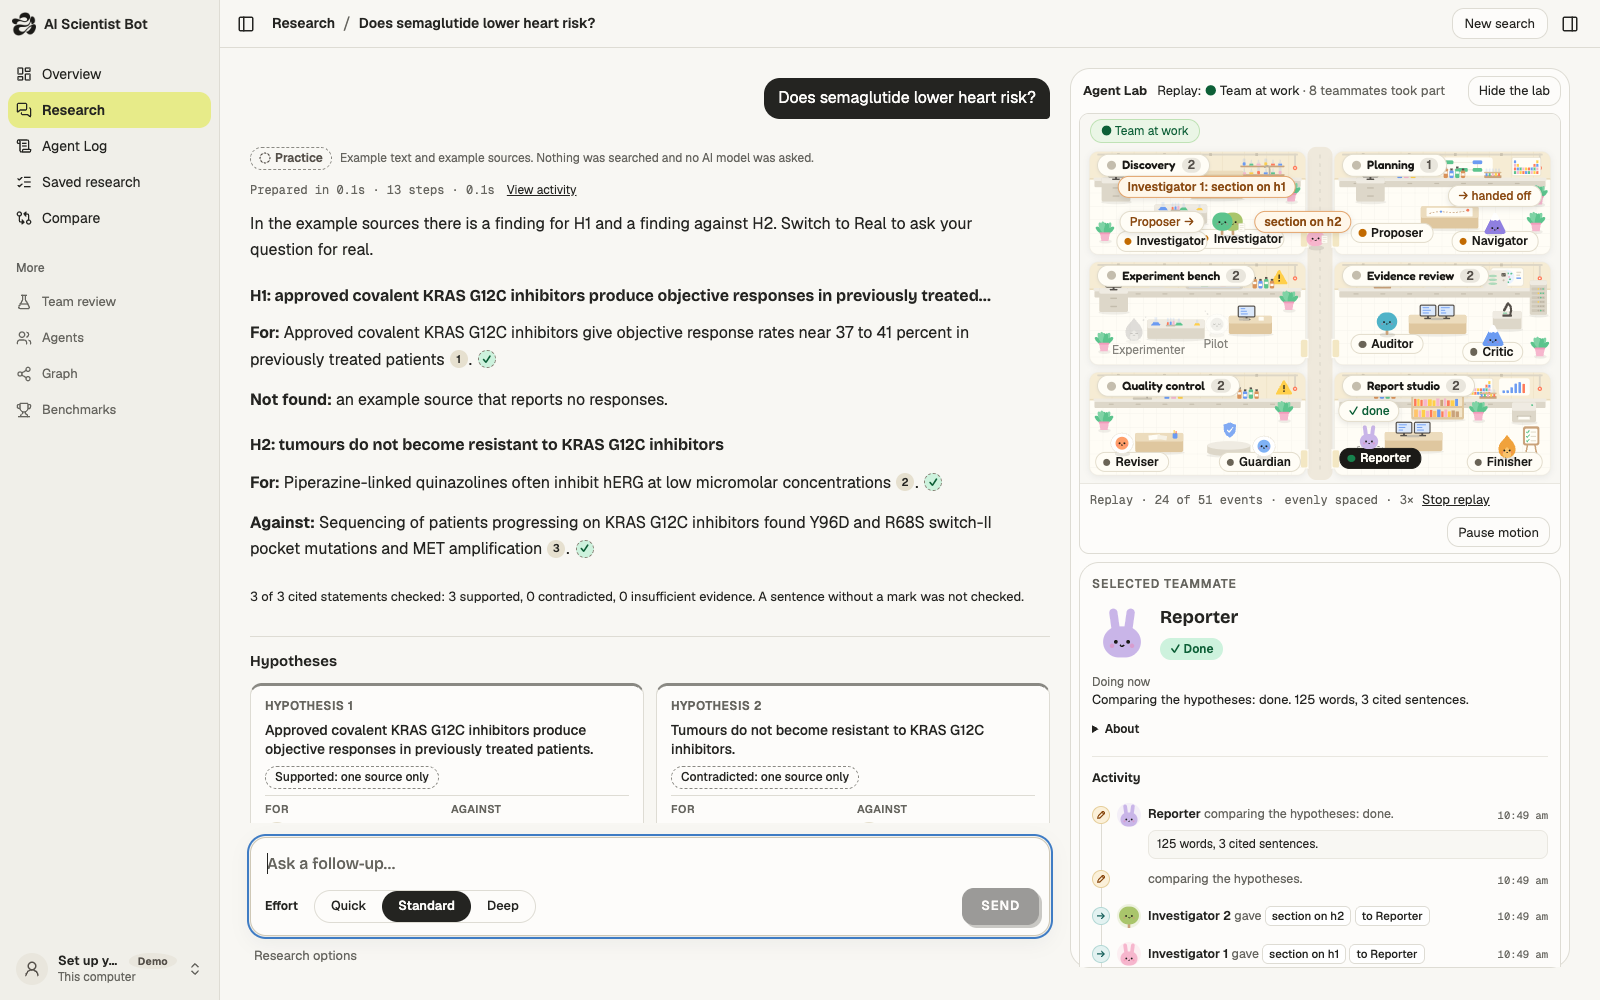
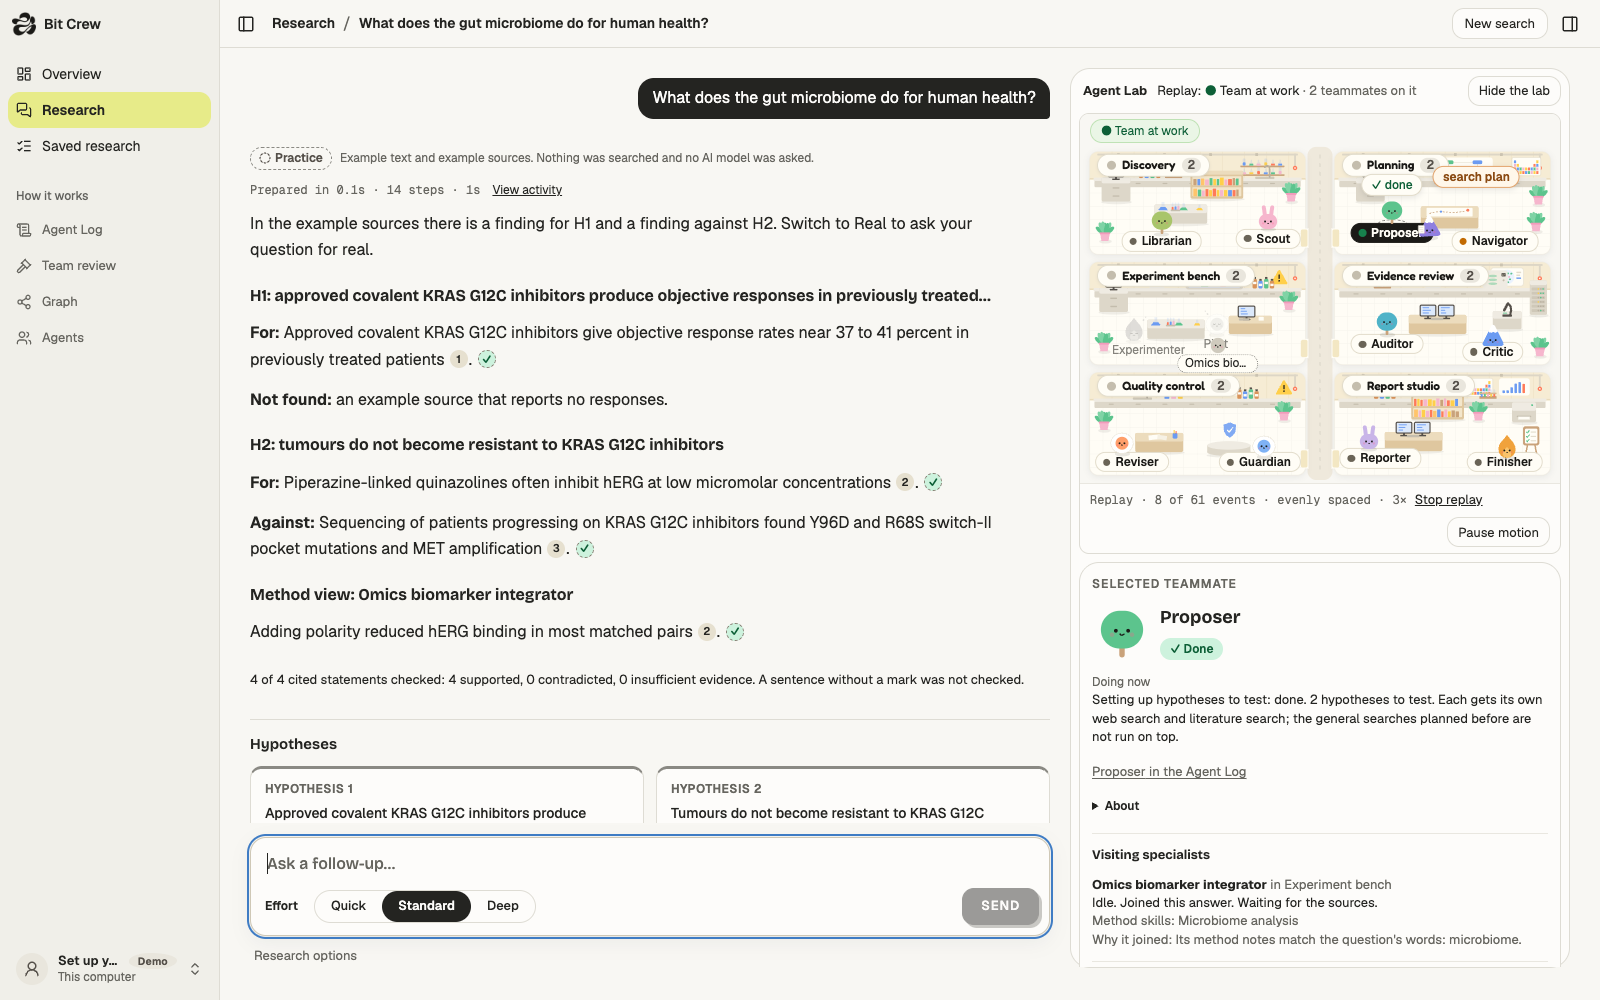
docs: refresh README tour and screenshots for the current app (#49)
* docs(readme): walk through the current app page by page, with new Demo screenshots

* no-mistakes(document): Sync literature source list in docs to six

* docs(readme): keep the live Agent Log note and wrap the Team review lines

* docs(readme): walk through the current app page by page, with new Demo screenshots

* no-mistakes(document): Sync literature source list in docs to six

* docs(readme): walk through the current app page by page, with new Demo screenshots

* docs(readme): keep the live Agent Log note and wrap the Team review lines

* no-mistakes(document): Clarify Research inspector tabs in README

* docs(readme): retake every tour screenshot from main as Bit Crew, after the team review moved into the Agent Log

* no-mistakes(review): Drop non-UI retraction and cache claims from docs

* docs(readme): describe the Overview question card as the app in use shows it, running and finished

---------

diff --git a/README.md b/README.md
@@ -6,7 +6,7 @@ checked, and what is still uncertain.**
 Built for the **SF AI Research Hackathon** (Track 3, AI Scientist Swarms) by team GLHF:
 Brendan Dang, Anh Lam and Josh Bustamante.
 
-**Contents:** [Try it](#try-it) · [Demo and Real](#demo-and-real) · [What is in the app](#what-is-in-the-app) ·
+**Contents:** [Run it](#run-it-on-your-machine) · [Demo and Real](#demo-and-real) · [Using the app](#using-the-app) ·
 [Where things stand](#where-things-stand) · [Benchmarks](#benchmarks) · [How it fits together](#how-it-fits-together) ·
 [Words](#words) · [Read more](#read-more)
 
@@ -127,11 +127,13 @@ only the case's data files are uploaded.
 Tested with fakes only; no run has used Modal yet. Details:
 [docs/configuration.md](docs/configuration.md#where-the-swarms-analyses-run-analysis_backend).
 
-## What is in the app
+## Using the app
 
-The sidebar has two groups. **Overview, Research, Saved research** come first: ask, read, find again.
-**How it works** holds Agent Log, Team review, Graph and Agents. Settings opens from the profile row at the foot.
-Benchmarks and Compare are not in the sidebar. They open only by their address (`#Benchmarks`, `#Compare`).
+The sidebar has two groups. **Overview**, **Research** and **Saved research** come first: ask, read, find again.
+**How it works** holds **Agent Log**, **Team review**, **Graph** and **Agents**. **Settings** opens from the profile
+row at the foot. Benchmarks and Compare are not in the sidebar; they open only by their address (`#Benchmarks`,
+`#Compare`). The pictures below are **Demo mode**: practice runs with fixed example text, not research. The app
+labels them "Practice".
 
 | Screen | What it is for |
 |---|---|
@@ -145,6 +147,121 @@ Benchmarks and Compare are not in the sidebar. They open only by their address (
 | Agent Log | Every event of the selected run, shown as a group chat. Each agent turn is a message beside the agent's picture and name. Longer reasoning opens with "Show thinking"; other long text, such as an answer draft, opens with "Show more". Tool calls, searches and system steps are small notes between the messages. While a run is live, the log stays on the newest message. One toolbar holds the search box, the Agent and Kind of step menus (each choice with its number of events) and Clear; on the right, Download (JSON or CSV of the shown events). The run menu above it lists runs in progress, then finished runs (research answers, team reviews and task runs), next to Follow newest. A team review shows a "Round n" line where each round begins, the lead and the members as messages, and each statement check as a quiet note with its mark (✓ supported, ✕ contradicted, ? insufficient evidence, ○ not checked). No room picture here; the Lab stays on Overview. |
 | Benchmarks | Not in the sidebar; open `#Benchmarks`. Our benchmark results set out as an evaluation: model, accuracy with its interval, tokens, time and cost, beside the record to beat. |
 | Settings | Demo or Real, Usage and limits (spent today, the limit per run and per day, Exa search), and Appearance: Light, Dark, or Match system. |
+
+### 1. Overview: ask, and watch the team work
+
+The app opens here. Choose Quick, Standard or Deep for a question, then press Send. Under the box, **Try asking**
+shows biology questions; a click fills the box, and nothing is sent until you press Send.
+
+Ask in the "Let's research together!" question box. Its card shows under the box: the agents and their current step,
+with Stop, while the team researches, and "The answer is ready." when it ends. The answer itself is not written on the
+Overview: "See the answer and follow up in Research" opens its chat in Research, with the full answer and the box for
+a follow-up. Below it, follow the six-room Agent Lab and its activity panel. One quiet line counts research and
+practice apart.
+
+![The Overview while the team researches: the question card with the agents, the current step and Stop](docs/images/overview.png)
+
+![The Overview when the run ends: "The answer is ready." and the link "See the answer and follow up in Research"](docs/images/overview-done.png)
+
+The **Agent Lab** shows the team as characters in six rooms (Discovery, Planning, Experiment bench; Evidence review,
+Quality control, Report studio). Click a teammate to see what it does now, and its steps in the Agent Log. Spending
+and limits are in Settings.
+
+The Lab's look is by Anh Lam.
+
+### 2. Research: the answer as a chat
+
+An Overview question continues here as the same conversation, so a follow-up keeps the context. The answer is
+written **live**: its text appears as the writer writes it, under short lines that say what the team is doing
+("Searching the web: found 6, kept 4."). Each cited sentence has a source number and a check mark. Below the text are
+the **hypotheses**, each with its sources for and against, then "What is missing" and the sources. Pictures from the
+sources show in a strip under the text; each links to its source page. "Open in the Agent Log" shows every step.
+A question that asks for a lab protocol or an SOP also searches published protocols (see [How a research answer is made](#how-a-research-answer-is-made)).
+
+Try asking works as on Overview: a click fills the box. The button at the top right opens the **inspector**, with
+up to four tabs (a tab shows only when it has content):
+
+- **Evidence**: the sources (found, selected, cited) and each checked statement with its quoted passage. A citation
+  number in the answer opens this tab with that source lit; "Show in the answer" goes back.
+- **Hypotheses**, **Results** (the saved files) and **Activity** (the steps, in order).
+
+![Research: a practice answer with the inspector open on the Evidence tab](docs/images/research.png)
+
+While an answer is made, the **Agent Lab** sits beside the conversation, on the right. A narrow screen puts the Lab
+above the conversation. When the Lab sits above the conversation and is narrower than 480 px, the agents' name tags
+are hidden so they do not overlap; click an agent's dot to see its name. Beside the conversation the name tags always
+show. The Lab uses the same scene as the Overview. Agents move only for steps the engine reports. Agents with no step
+stay at their desks. Click an agent to see what it is doing. "Hide the lab" folds it into one line. The browser
+remembers this choice for the next answer. When the answer is done, the Lab folds by itself. "Show the lab" opens it
+again, and "Replay" plays the recorded events again. A Demo answer is finished in a fraction of a second, so the Lab
+replays a new Demo answer once, labelled "Replay". "Pause motion" stops all movement. With the system's reduced-motion
+setting, nothing moves and nothing replays by itself. Code: `dashboard/src/research/ResearchLive.tsx`.
+
+![Research with a Demo answer on the left and its Agent Lab replaying on the right](docs/images/research-lab.png)
+
+![A narrow screen: the Agent Lab, opened again after the answer, above the conversation (the name tags are hidden, so each agent shows as a dot)](docs/images/research-lab-narrow.png)
+
+### 3. Saved research: everything that was run
+
+Newest first, with a search box that finds a word in a question, a result or anything that was said. Filters:
+Answers, Team reviews, Benchmark runs and **Examples** (six read-only practice runs, see
+[Example library](#example-library)). Each row opens the run, and has a link to its Agent Log (and to its Graph, for
+a run that has one).
+
+### 4. Agent Log and Team review: who said what
+
+The **Agent Log** shows every event of one run as a **group chat**. Each agent turn is a message beside the agent's
+picture and name. Longer reasoning opens with **Show thinking**; other long text opens with **Show more**. Tool
+calls, searches and system steps are small notes between the messages. While a run is live, the log stays on the
+newest message. One toolbar holds the search box, the
+**Agent** and **Kind of step** menus (each choice with its number of events), Clear and Download (JSON or CSV). The
+run menu at the top lists runs in progress, then finished ones (research answers, team reviews and task runs), next
+to **Follow newest**. Click a face or a name to see only that agent's messages, then follow the link to its card in
+Agents. A team review shows a "Round n" line where each round begins, the lead and the members as messages, and each
+statement check as a quiet note with its mark (✓ supported, ✕ contradicted, ? insufficient evidence, ○ not checked).
+
+![The Agent Log for a practice team review: the "Round 1" line, the lead's message, the scout's and the evidence verifier's searches as quiet notes, then the members' messages](docs/images/agent-log.png)
+
+A **Team review** is the drug board: a lead scientist and seven members discuss a written brief over rounds, and the
+lead writes a recommendation. In every round the scout gathers sources first, then the **evidence verifier** rechecks
+each source the scout cited and searches for what it missed; the lead reads its report before deciding. The screen
+shows the recommendation first, then how many statements were checked and how each one did (supported, contradicted,
+insufficient evidence), who took part, and the discussion round by round. The discussion is the Agent Log's group chat
+for that review, with a link "Open in Agent Log". Each member opens its messages in the Agent Log; each source and
+checked statement has an "In the graph" link.
+
+![Team review: the recommendation, the counts of checked statements, the seven members who took part, and the start of the discussion](docs/images/team-review.png)
+
+### 5. Agents: who does the work
+
+All agents as member cards, grouped by team: the **team of nine** (benchmark tasks) in step order, the **team review**
+with its lead first, then the **specialists** A to Z. Filter by team or search by name, job or tool. **Details** opens
+one member in a side panel, with a link to its messages in the Agent Log.
+
+![Agents: member cards for the team of nine, with their step and model group](docs/images/agents.png)
+
+### 6. Graph: one run as a picture
+
+One run (a team review, or a Compare run on a benchmark task) as a 3D graph of team members and their statements, coloured by what each
+check found. "Watch how this unfolded" replays the statements in order; "Next contradicted one" jumps to a problem.
+Select a node to see its details and what it connects to. The side panel links back to the run and to the Agent Log.
+A research answer has no graph.
+
+![Graph: a practice team review as members and statements, with contradicted ones in red](docs/images/graph.png)
+
+### 7. Settings
+
+Your profile (kept in this browser only), **Run mode** (Demo or Real; see [Turn on Real mode](#turn-on-real-mode)),
+**Usage and limits** (spent today, the limit per run and per day, Exa search), the session token for Real runs, and
+**Appearance**: Light, Dark or Match system. Light is the default. **Help** opens "How this works".
+
+### Compare and Benchmarks
+
+These two are not in the sidebar; open them by their address. **Compare** (`#Compare`) runs the team of nine against
+one agent alone on the same benchmark task. **Benchmarks** (`#Benchmarks`) sets out our
+results as an evaluation: model, accuracy with its interval, tokens, time and cost, beside the record to beat. These
+numbers come from real runs, read from the run records. Where something was not measured the screen says "Not
+known". The numbers are in [Benchmarks](#benchmarks) below.
 
 ### How the screens connect
 
@@ -166,10 +283,7 @@ The address bar always says what is shown, so Back, Forward and a copied link re
 `#Lab/<kind>/<run id>?agent=<name>`, `#Graph/<kind>/<run id>?node=<node id>`, `#Agents/<name>`, `#Board/<run id>`,
 `#Compare/<run id>`. The code is in `dashboard/src/lib/links.ts`.
 
-The Overview Lab has **three rooms across and two down on wide screens**: Discovery, Planning,
-Experiment bench; Evidence review, Quality control, Report studio. The activity panel sits
-below it. Narrow screens use fewer columns. Agents walk between rooms along the corridors.
-The room art is unchanged. The Lab's look is by Anh Lam.
+### How a research answer is made
 
 Research answers can add **method specialists** whose skills fit the question. Code matches
 the question to their method notes. They write from the sources found; their sections are
@@ -246,52 +360,6 @@ node scripts/generate-examples.mjs
 
 The script starts its own engine with paid calls off and locked. It makes the events through
 the Demo pipeline, not by hand. These are practice runs, not research or benchmark results.
-
-### Earlier Demo screenshots
-
-The Overview, Research, Team review and Lab pictures below show earlier layouts in **Demo
-mode**. They are practice runs: fixed example text, not research. The app labels them "Practice".
-The Benchmarks picture is described separately.
-
-**Overview.** Practice runs are counted apart from research, so the big number is only what real
-models produced.
-
-![The Overview screen: totals, runs per day and the latest runs](docs/images/overview.png)
-
-**Research.** You ask; the answer is split into hypotheses, each with the sources for and against
-it. A mark that rests on one source only says so ("one source only").
-
-![The Research screen with a practice answer split into two hypotheses](docs/images/research.png)
-
-**Research's live Agent Lab.** While an answer is made, the conversation is on the left and the
-Agent Lab is on the right. A narrow screen puts the Lab above the conversation. When the Lab sits above the conversation
-and is narrower than 480 px, the agents' name tags are hidden so they do not overlap; click an
-agent's dot to see its name. Beside the conversation the name tags always show. The Lab uses the same
-scene as the Overview. Agents move only for steps the engine reports. Agents with no step stay at
-their desks. Click an agent to see what it is doing. "Hide the lab" folds it into one line. The
-browser remembers this choice for the next answer. When the answer is done, the Lab folds by itself.
-"Show the lab" opens it again, and "Replay" plays the recorded events again. A Demo answer is
-finished in a fraction of a second, so the Lab replays a new Demo answer once, labelled "Replay".
-"Pause motion" stops all movement. With the system's reduced-motion setting, nothing moves and
-nothing replays by itself. Code: `dashboard/src/research/ResearchLive.tsx`.
-
-![Research with a Demo answer on the left and its Agent Lab replaying on the right](docs/images/research-lab.png)
-
-![A narrow screen: the Agent Lab, opened again after the answer, above the conversation (taken before name tags were hidden on narrow Labs)](docs/images/research-lab-narrow.png)
-
-**Team review.** The decision first, then how many statements were checked and how each one did.
-
-![The Team review screen: the recommendation and the counts of supported, contradicted and unproven statements](docs/images/team-review.png)
-
-**Overview's Agent Lab.** The same run as a scene: who is working and who fetched what.
-This earlier picture shows the room art, not the current three-column layout or the Agent Log.
-
-![Earlier Demo Lab: six rooms with agents as characters and an activity panel](docs/images/lab.png)
-
-**Benchmarks.** These numbers are real runs, read from the run records. Where something was not
-measured the screen says "Not known".
-
-![The Benchmarks screen: the record to beat, and one agent against the team of nine with accuracy, tokens, time and cost](docs/images/benchmarks.png)
 
 ## Where things stand
 
@@ -434,7 +502,7 @@ holds the keys, enforces the spending limits, and is the only part that reaches 
 ```mermaid
 flowchart TB
     you(["You, in a browser"])
-    app["<b>The app</b> (dashboard) · 127.0.0.1:5317<br/>Research · Saved research · Compare · Team review<br/>Agents · Graph · Lab · Settings"]
+    app["<b>The app</b> (dashboard) · 127.0.0.1:5317<br/>Overview · Research · Saved research<br/>How it works: Agent Log · Team review · Graph · Agents<br/>Settings · by address: Compare · Benchmarks"]
 
     subgraph engine["The engine · 127.0.0.1:8787 · on your machine"]
         gate{"Access check and<br/>spending limits"}
